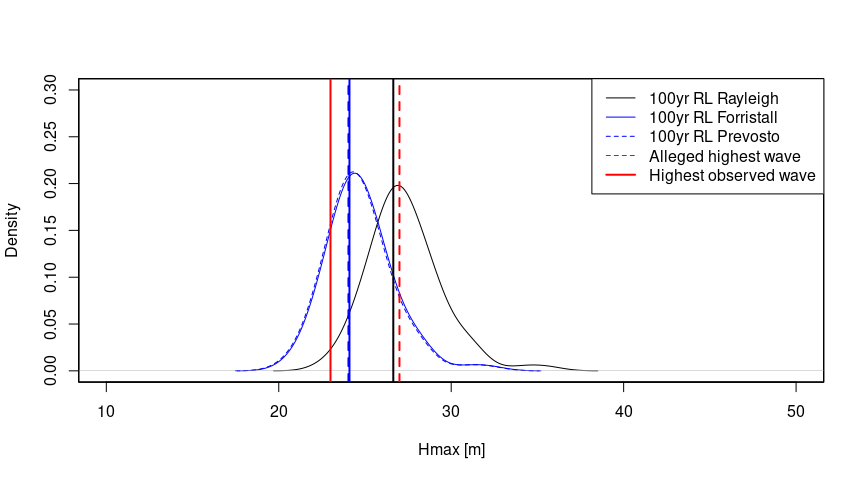
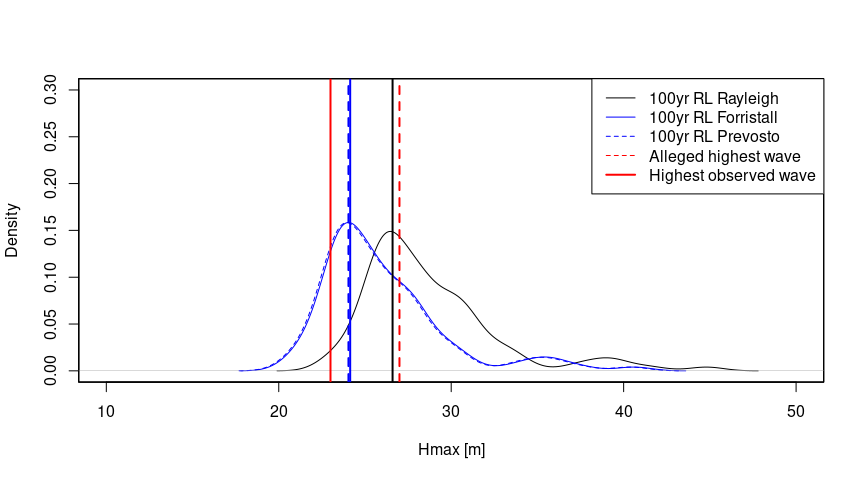
update README

Changed region(s): [[0.3438, 0.1562, 0.875, 0.7812], [0.5625, 0.6875, 0.5938, 0.7188], [0.3125, 0.7188, 0.3438, 0.75]]

diff --git a/README.md b/README.md
@@ -36,6 +36,9 @@ df_ekofisk_red <- df_ekofisk[, c("time", "hs", "wind_speed_10m", "tp", "tm2", "P
 # full dataset
 ds <- df_ekofisk_red  # 48 yrs
 
+# add u10
+ds[['u10']] <- ds[['wind_speed_10m']]
+
 # number of years covered by original dataset
 nr_of_years <- 48
 
@@ -58,7 +61,7 @@ system.time(df_pick <- peak_picking(ds, peak_picking_thr_model_fml,
     ## [1] "find peaks for combined storms"
 
     ##    user  system elapsed 
-    ## 248.291  22.181 270.623
+    ## 251.769  23.811 275.632
 
 ``` r
 # additional variables were added, i.e. exc, thr, and storm_idx
@@ -89,7 +92,7 @@ plot(density(ds$hs, bw=.1), main="All Sea States Hs [m]")
 
 ``` r
 # number of bootstrap/resampling steps
-nbstrp <- 50  # e.g. nbstrp = 20 for testing
+nbstrp <- 20  # e.g. nbstrp = 20 for testing
 
 system.time(res_bstrp <- run_bootstrap_storms_pots(df = df_pick$storms,
                                                    group_col = "storm_idx",
@@ -98,7 +101,7 @@ system.time(res_bstrp <- run_bootstrap_storms_pots(df = df_pick$storms,
 ```
 
     ##    user  system elapsed 
-    ##  18.799   0.182  18.987
+    ##   7.377   0.000   7.379
 
 ``` r
 bstrp_storms_lst <- res_bstrp$boot_samples
@@ -142,8 +145,9 @@ knots = list(doy = c(0,366), Pdir=c(0,360))
 # indicate variable that needs ppgam weights
 node_str_lst = c('Pdir')
 
-# pick threshold range list based on cross-validation
-thr_range <- list('hs'=c(.72,.84), 'tm2'=c(.72,.84))
+# pick threshold range list based on some reasonable thresholds
+# cross-validation results could be used instead
+thr_range <- list('hs'=c(.8,.9), 'tm2'=c(.8,.9), 'u10'=c(.8,.9))
 
 # define models
 fml_pp <- ~ te(doy, Pdir, bs = c('cc', 'cc'), k = c(6,8))
@@ -151,6 +155,7 @@ fml_gpd <- list(exc ~ te(doy, Pdir, k=c(6,8), bs=c("cc","cc")),
                 ~ te(doy, Pdir, k=c(6,8), bs=c("cc","cc")))
 fml_ald <- hs ~ te(doy, Pdir, bs=c("cc","cc"), k=c(6,8))
 fml_ald_tm2 <- tm2 ~ te(doy, Pdir, bs=c("cc","cc"), k=c(6,8))
+fml_ald_u10 <- u10 ~ te(doy, Pdir, bs=c("cc","cc"), k=c(6,8))
 
 model_fml_thr <- NULL
 model_fml_gpd <- NULL
@@ -161,18 +166,21 @@ model_fml_gpd[['hs']] <- fml_gpd
 model_fml_occ[['tm2']] <- fml_pp
 model_fml_thr[['tm2']] <- fml_ald_tm2
 model_fml_gpd[['tm2']] <- fml_gpd
+model_fml_occ[['u10']] <- fml_pp
+model_fml_thr[['u10']] <- fml_ald_u10
+model_fml_gpd[['u10']] <- fml_gpd
 
 syst <- system.time(
 models_margs <- fit_margs_bstrp(bstrp_pots_lst,
                                 model_fml_thr, model_fml_occ, model_fml_gpd,
                                 extr_thr=thr_range, nr_of_years,
-                                thr_str = 'thr',
-                                list_var = c('hs','tm2'),
+                                thr_str = "thr",
+                                list_var = c("hs", "tm2", "u10"),
                                 nbstrp = nbstrp,
                                 nquad = 225,
                                 knots = knots,
                                 node_str_lst = node_str_lst,
-                                family_occ = 'pp')
+                                family_occ = "pp")
 )
 print(syst)
 ```
@@ -185,10 +193,11 @@ nmc <- 100  # number of mc samples for each bootstrap sample
 
 syst <- system.time(
 preds_margs_lst <- predict_margs(models_margs, nr_of_years, RP=RP,
-                                 nmc = nmc, var_lst = c('hs','tm2'), nbstrp = nbstrp,
-                                 covarstr_lst = c('Pdir','doy'),
-                                 grid_interval = list('Pdir'=1, 'doy'=1),
-                                 family_occ = 'pp')
+                                 nmc = nmc, var_lst = c("hs", "tm2", "u10"),
+                                 nbstrp = nbstrp,
+                                 covarstr_lst = c("Pdir","doy"),
+                                 grid_interval = list("Pdir"=1, "doy"=1),
+                                 family_occ = "pp")
 )
 print(syst)
 ```
@@ -196,14 +205,14 @@ print(syst)
 ## Plot resulting simulated peaks
 
 ``` r
-dhs <- diagnose_margs_preds_density(preds_margs_lst, 'hs', bw=.1, xlim=c(5,40))
+dhs <- diagnose_margs_preds_density(preds_margs_lst, "hs", bw=.1, xlim=c(5,40))
 ```
 
 ![](README_files/figure-gfm/unnamed-chunk-9-1.png)<!-- -->
 
     ## [1] "summary maxes:"
     ##    Min. 1st Qu.  Median    Mean 3rd Qu.    Max. 
-    ##   11.18   13.34   14.17   14.48   15.13   38.97
+    ##   11.29   13.54   14.46   15.04   15.68   47.00
 
 ``` r
 abline(v = max(df_pick$pots$hs), col = "gray", lwd = 2)
@@ -248,7 +257,7 @@ print(syst)
 
 ``` r
 # diagnose effect of threshold choice
-diagnose_maxds(models_maxds_thr, maxd_thr, 'hs', 'tm2', ylim=c(-1.5, 1.5))
+diagnose_maxds(models_maxds_thr, maxd_thr, "hs", "tm2", ylim=c(-1.5, 1.5))
 ```
 
 ![](README_files/figure-gfm/unnamed-chunk-11-1.png)<!-- -->
@@ -270,24 +279,19 @@ print(syst)
 # Diagnose by comparing data against nsim HT2004 simulations
 
 ``` r
-nsim <- 100
-diagnose_maxds_fitted(models_maxds[[2]], "tm2", "hs", nsim)
-```
-
-![](README_files/figure-gfm/unnamed-chunk-13-1.png)<!-- -->
-
-``` r
+# example for "hs/tm2"
+nsim <- 200
 diagnose_maxds_fitted(models_maxds[[2]], "hs", "tm2", nsim)
 ```
 
-![](README_files/figure-gfm/unnamed-chunk-14-1.png)<!-- -->
+![](README_files/figure-gfm/unnamed-chunk-13-1.png)<!-- -->
 
 ## Simulate joint 100yr events
 
 ``` r
 # predict on Laplace space
 preds_maxds_LP <- predict_from_HT2004_models(models_margs, models_maxds,
-                                             c('tm2','hs'), nbstrp,
+                                             c("tm2", "hs", "u10"), nbstrp,
                                              preds=preds_margs_lst)
 
 # convert to real space
@@ -295,20 +299,20 @@ preds_maxds <- convert_HT2004_preds_to_original_space(
                   models_maxds,
                   preds_maxds_LP,
                   preds_margs_lst,
-                  var_lst = c("tm2", "hs"))
+                  var_lst = c("tm2", "hs", "u10"))
 
 # reorganize to consolidate
 preds_maxds_LP_new <- reorganize_HT2004_preds(
                         models_maxds,
                         preds_maxds_LP,
                         preds_margs_lst,
-                        var_lst = c("tm2","hs"))
+                        var_lst = c("tm2", "hs", "u10"))
 
 # retrieve valid predicted values according to chosen space
 valids <- retrieve_valid_HT_samples(preds_maxds,
                                     preds_maxds_LP,
                                     preds_margs_lst,
-                                    "hs", c("tm2"),
+                                    "hs", c("tm2", "u10"),
                                     models_maxds = models_maxds)
 
 # Filter Laplace to valid HT2004 space only
@@ -381,7 +385,16 @@ p3 <- plot_preds_2d_gg_shared(df_preds_both, xvar = "tm2", yvar = "hs",
 print(p1 + p2 + p3 + plot_layout(ncol = 3))
 ```
 
-![](README_files/figure-gfm/unnamed-chunk-16-1.png)<!-- -->
+![](README_files/figure-gfm/unnamed-chunk-15-1.png)<!-- -->
+
+# Plot a 3D field
+
+``` r
+## output not shown here
+#plot_ly_3d(df_preds, xvar = "hs", yvar = "u10", zvar = "tm2",
+#           xlim = c(0, 20), ylim = c(0, 40), zlim = c(0, 20),
+#           df_obs = df_pick$pots)
+```
 
 ## Simulate storms (matching) given simulated storm peaks
 
@@ -559,9 +572,9 @@ cat(sprintf("Low sector: %.2f\nHigh sector: %.2f\nOmni: %.2f\n",
             RP_f_hmax_low, RP_f_hmax_high, RP_f_hmax))
 ```
 
-    ## Low sector: 12.30
-    ## High sector: 23.50
-    ## Omni: 24.10
+    ## Low sector: 12.77
+    ## High sector: 23.30
+    ## Omni: 24.14
 
 ## Apply to synthetic, univariate, non-stationary data
 
@@ -605,7 +618,7 @@ system.time(df_pick <- peak_picking(ds_subset, peak_picking_thr_model_fml,
     ## [1] "find peaks for combined storms"
 
     ##    user  system elapsed 
-    ##  17.576   0.748  18.329
+    ##  19.056   0.607  19.670
 
 ## Plot picking result
 
@@ -656,7 +669,7 @@ plot_cvres(cvres, limits = c(.8, .9))
 
 ``` r
 # number of bootstrap/resampling steps
-nbstrp <- 50  # e.g. nbstrp = 20 for testing
+nbstrp <- 20  # e.g. nbstrp = 20 for testing
 
 system.time(res_bstrp <- run_bootstrap_storms_pots(df = df_pick$storms,
                                                    group_col = "storm_idx",
@@ -785,8 +798,8 @@ cat(sprintf("Truth: %.2f\nq'2: %.2f\nq3: %.2f\nq4: %.2f\n",
 ```
 
     ## Truth: 8.43
-    ## q'2: 8.37
-    ## q3: 8.46
+    ## q'2: 8.38
+    ## q3: 8.51
     ## q4: 8.33
 
 ## Notes
